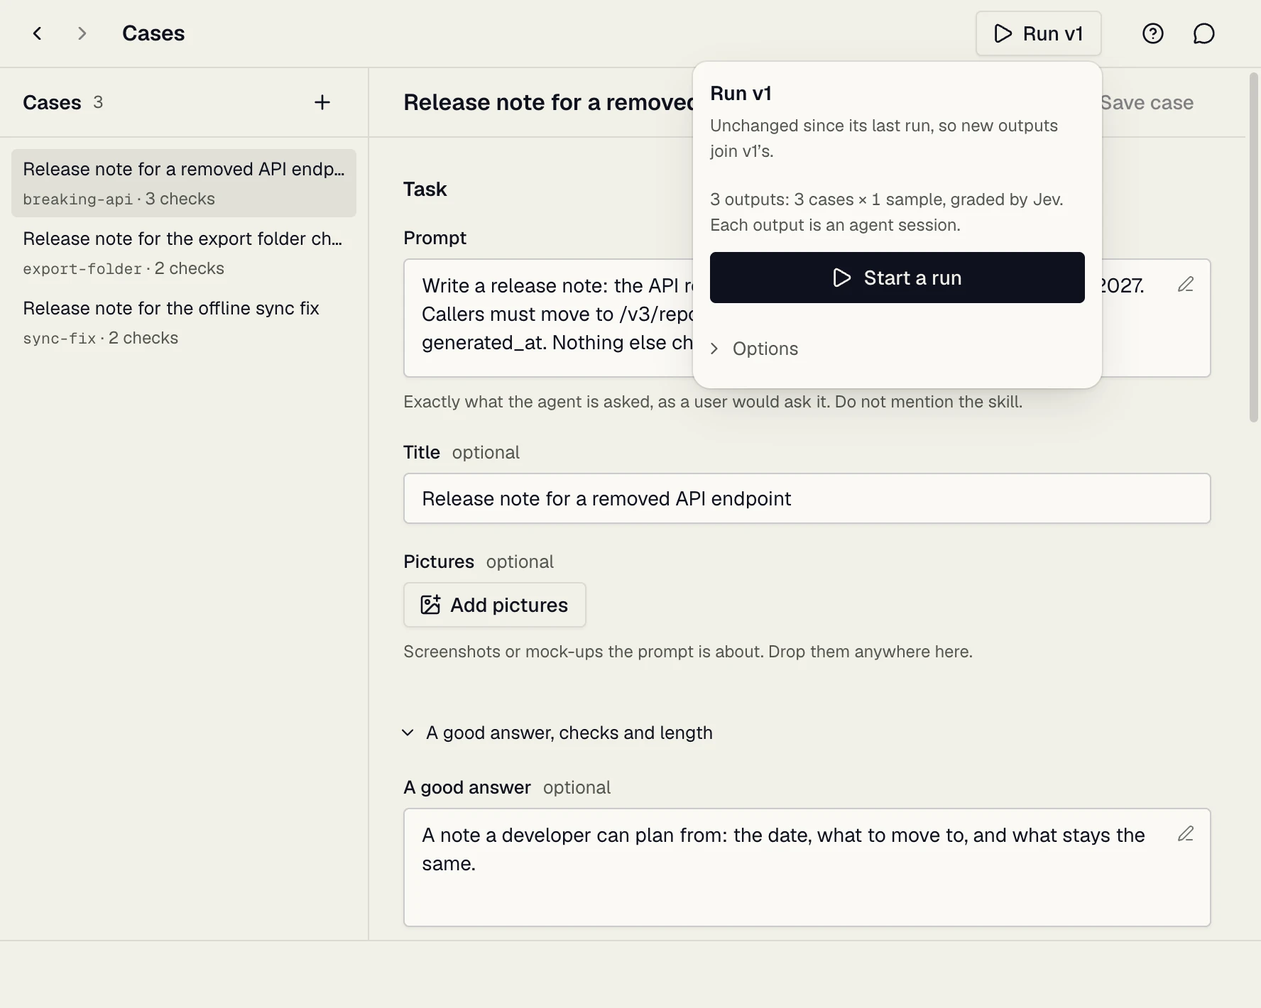
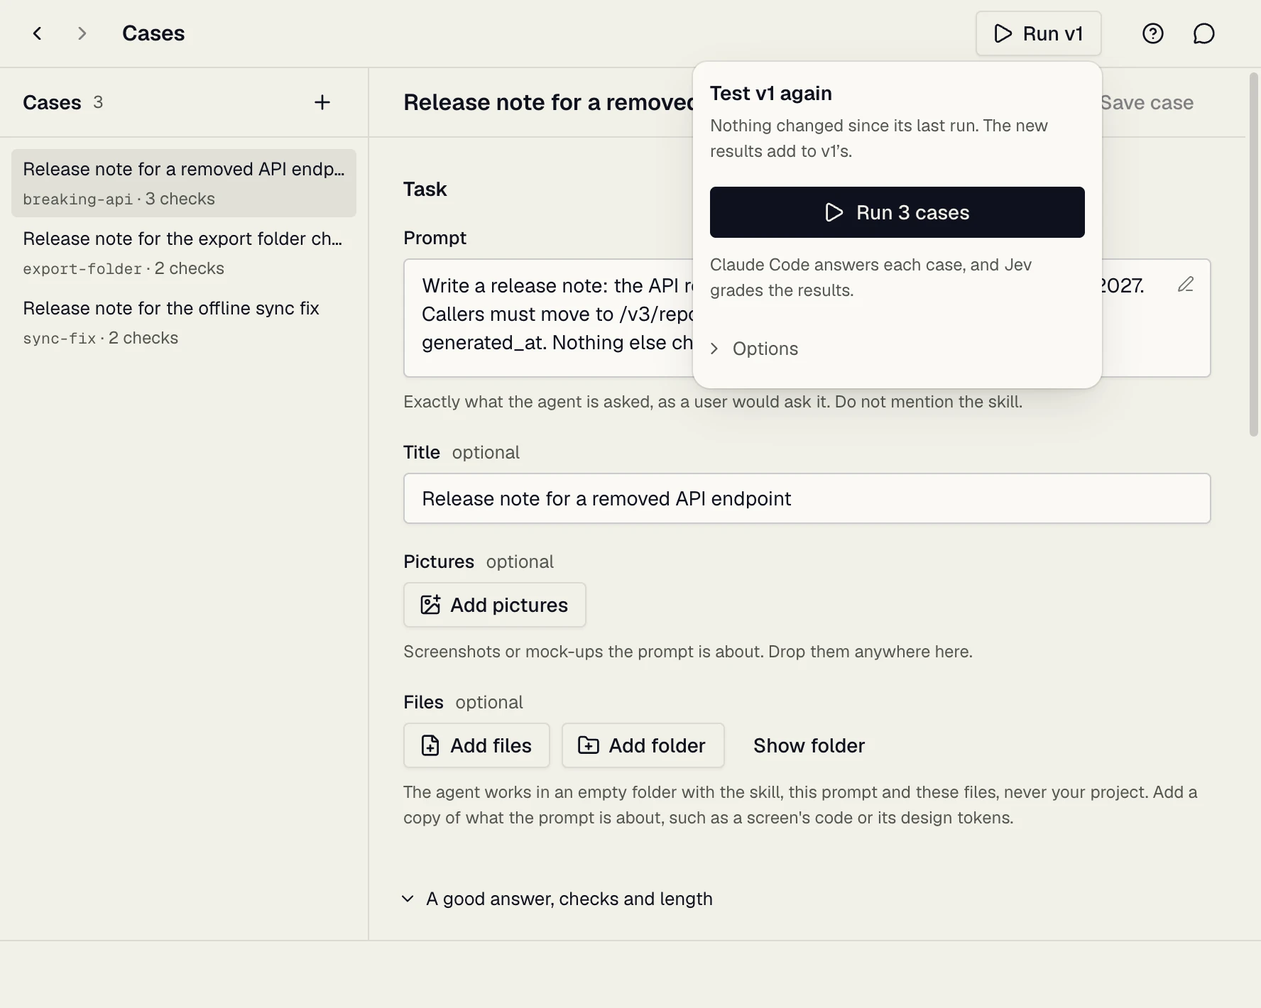
Run panel says what it tests, and its button names the run
The panel led with mechanism (versions kept, outputs, samples, agent
sessions) in 12px muted text, and the one fact that costs money sat last.
Now the title says what is tested, one line says what comes of it, and the
button carries the size of the run: "Run 3 cases", or "Run 3 cases, 2
attempts each". The line under it says which agent answers and that Jev
grades. Ticking cases or changing attempts changes only the button's words.

No Jev key, unsaved files and no agent are warning Statuses instead of grey
hints; no agent is tied to the disabled button by aria-describedby and opens
Options. No case ticked reads "Tick a case to run". Options labels: Skill,
Version, Attempts per case; a missing agent's setup hint sits under Agent.
The panel is labelled by its heading. Status takes an id.

Design docs, guide, run.webp and the changelog follow.

diff --git a/src/renderer/components/Run.tsx b/src/renderer/components/Run.tsx
@@ -1,10 +1,12 @@
 /**
  * Run: the button in the top bar that has an agent do the skill's cases. It is
  * a button and not a place, because a run is one step between writing and
- * comparing. Pressing it opens what the run will do, said first because a run
- * costs money, with the one button that starts it under that. What rarely
- * changes (which cases, which agent, how many samples) waits under Options,
- * below the button, so opening it never moves the button away.
+ * comparing. Pressing it opens what the run will test, in words a first-time
+ * reader knows, and one button that names what it will do ("Run 3 cases"),
+ * because a run costs money. Under the button, one line says who does the
+ * work. What rarely changes (which cases, which agent, how many attempts)
+ * waits under Options, below the button, so opening it never moves the button
+ * away, and ticking a case or changing a count changes only the button's words.
  *
  * A run tests the skill as its files are saved. When they changed since the
  * last run, the run keeps a copy of them as the next version, so every score
@@ -16,7 +18,7 @@
 import { practiceVersionName } from '@domain/practice.ts'
 import { CONFIGURATIONS, type Configuration } from '@domain/schemas.ts'
 import { PlayIcon } from 'lucide-react'
-import { useMemo, useState } from 'react'
+import { useId, useMemo, useState } from 'react'
 import { api, type Job, type State } from '../api.ts'
 import { type Reporter, useToggleSet } from '../hooks.ts'
 import { useJobStart } from '../job-start.ts'
@@ -41,10 +43,14 @@ const CONFIG_LABEL: Record<Configuration, string> = {
 }
 
 const CONFIG_HELP: Record<Configuration, string> = {
-  with_skill: 'The agent has the skill as its files are saved now.',
-  without_skill: 'No skill installed. Run this once to see whether the skill helps at all.',
-  old_skill: 'A past run’s copy of the skill, to test an edit against the version before it.',
+  with_skill: 'The skill as its files are saved now.',
+  without_skill: 'No skill at all. Run this once to see whether the skill helps.',
+  old_skill: 'A copy an earlier run kept, to test an edit against the version before it.',
 }
+
+/** "3 cases", or "3 cases, 2 attempts each": what the run does, said once on its button. */
+const runSize = (cases: number, attempts: number): string =>
+  attempts > 1 ? `${plural(cases, 'case')}, ${attempts} attempts each` : plural(cases, 'case')
 
 interface Writer {
   engine: string
@@ -71,6 +77,8 @@ export function RunButton({
   /** Skill files with edits not saved yet: a run tests the files as saved, so it says so. */
   unsaved: number
 }) {
+  const titleId = useId()
+  const reasonId = useId()
   const engines = state.engines
   const current = state.versions.current
   const withSkill = state.runs.filter((r) => r.hasSkill)
@@ -109,7 +117,7 @@ export function RunButton({
     : firstVersion
       ? 'First version'
       : `Edits of ${shortDate(new Date().toISOString())}`
-  const count = cases.length * samples
+  const size = runSize(cases.length, samples)
   /**
    * A run of this skill, from the press that starts it until it is over. The
    * button stays busy all that time: starting returns as soon as the job is
@@ -137,37 +145,45 @@ export function RunButton({
         note: '',
         grade: true,
       })
-      report(`Run started: ${plural(count, 'output')}`)
+      report(`Run started: ${size}`)
       setName('')
       onOpenChange(false)
     })
   }
 
+  // What the run tests and what comes of it, in the reader's words: no file, copy or folder.
   const lead =
     configuration === 'without_skill'
       ? {
-          title: 'Run without the skill',
-          hint: `The same cases with no skill installed, filed under ${current.version}. It is the score the skill has to beat.`,
+          title: 'Test without the skill',
+          hint: 'The same cases with no skill at all. It sets the score your skill has to beat.',
         }
       : configuration === 'old_skill'
         ? {
-            title: pastRun ? `Run ${versionName(pastRun)}` : 'Run an earlier version',
+            title: 'Test an earlier version',
             hint: pastRun
-              ? `The copy of the skill from the run of ${runStamp(pastRun)}, to test the latest edit against.`
+              ? `${versionName(pastRun)}, as it was on ${runStamp(pastRun)}. Compare your latest edits against it.`
               : 'No earlier run kept a copy of the skill.',
           }
-        : {
-            title: `Run ${current.version}`,
-            hint: !current.changed
-              ? `Unchanged since its last run, so new outputs join ${current.version}’s.`
-              : firstVersion
-                ? `The first run keeps the skill as ${current.version}, so every score stays tied to the text behind it.`
-                : `The skill changed since its last run, so this run keeps it as ${current.version}.`,
-          }
+        : firstVersion
+          ? {
+              title: 'Test this skill',
+              hint: `Saves it as ${current.version}, so you can compare later edits with it.`,
+            }
+          : current.changed
+            ? {
+                title: 'Test your edits',
+                hint: `Saves the skill as ${current.version}, so you can compare it with the version before.`,
+              }
+            : {
+                title: `Test ${current.version} again`,
+                hint: `Nothing changed since its last run. The new results add to ${current.version}’s.`,
+              }
   const configurations = withSkill.length
     ? CONFIGURATIONS
     : CONFIGURATIONS.filter((c) => c !== 'old_skill')
   const missing = engines.filter((e) => !e.available)
+  const who = engine?.label ?? 'The agent'
 
   return (
     <Popover open={open} onOpenChange={onOpenChange}>
@@ -186,11 +202,11 @@ export function RunButton({
       <PopoverContent
         align="end"
         size="form"
-        aria-label="Run"
+        aria-labelledby={titleId}
         className="max-h-(--radix-popover-content-available-height) overflow-y-auto overscroll-contain"
       >
         <Stack gap="xs">
-          <Heading level={3} as="h2">
+          <Heading level={3} as="h2" id={titleId}>
             {lead.title}
           </Heading>
           <Hint>{lead.hint}</Hint>
@@ -208,42 +224,53 @@ export function RunButton({
             <Hint>Names {current.version}, so you can tell versions apart later.</Hint>
           </Field>
         ) : null}
-        {unsaved && configuration === 'with_skill' ? (
-          <Status
-            tone="warning"
-            size="ui"
-            detail="A run tests the files as saved. Save them on the Skill screen first."
-          >
-            {plural(unsaved, 'file')} with unsaved edits
-          </Status>
+        {(unsaved && configuration === 'with_skill') || !state.jevKey ? (
+          <Stack gap="sm">
+            {unsaved && configuration === 'with_skill' ? (
+              <Status
+                tone="warning"
+                size="ui"
+                detail="The run tests the files as saved. Save them on the Skill screen first."
+              >
+                {plural(unsaved, 'file')} not saved
+              </Status>
+            ) : null}
+            {state.jevKey ? null : (
+              <Status
+                tone="warning"
+                size="ui"
+                detail="Only code checks will grade this run. Add a key in Settings."
+              >
+                No Jev key
+              </Status>
+            )}
+          </Stack>
         ) : null}
         <Stack gap="md">
-          <Hint tabular>
-            {running && !starting
-              ? 'A run of this skill is going. Start the next one when it is over.'
-              : !usable
-                ? 'No agent is set up to write the outputs.'
-                : !cases.length
-                  ? 'Tick at least one case under Options.'
-                  : `${plural(count, 'output')}: ${plural(cases.length, 'case')} × ${plural(samples, 'sample')}, graded ${state.jevKey ? 'by Jev' : 'by code checks only: no Jev key'}. Each output is an agent session.`}
-          </Hint>
           <Button
             type="button"
-            disabled={
-              (running && !starting) ||
-              !usable ||
-              !cases.length ||
-              (configuration === 'old_skill' && !pastRun)
-            }
-            busy={starting}
-            busyLabel="Starting…"
+            disabled={!usable || !cases.length || (configuration === 'old_skill' && !pastRun)}
+            busy={running}
+            busyLabel={starting ? 'Starting…' : 'Running…'}
+            aria-describedby={usable ? undefined : reasonId}
             onClick={start}
           >
             <PlayIcon aria-hidden="true" />
-            Start a run
+            {cases.length ? `Run ${size}` : 'Tick a case to run'}
           </Button>
+          {usable ? (
+            <Hint>
+              {state.jevKey
+                ? `${who} answers each case, and Jev grades the results.`
+                : `${who} answers each case.`}
+            </Hint>
+          ) : (
+            <Status tone="warning" size="ui" id={reasonId} detail="See Agent under Options.">
+              No agent is set up
+            </Status>
+          )}
         </Stack>
-        <Disclosure summary="Options">
+        <Disclosure summary="Options" defaultOpen={!usable}>
           <Stack gap="lg">
             <Field role="group" aria-labelledby="run-cases">
               <Label id="run-cases">Cases</Label>
@@ -261,7 +288,7 @@ export function RunButton({
               </Stack>
             </Field>
             <Field>
-              <Label htmlFor="run-with">Write with</Label>
+              <Label htmlFor="run-with">Skill</Label>
               <SelectBox
                 id="run-with"
                 width="full"
@@ -273,7 +300,7 @@ export function RunButton({
             </Field>
             {configuration === 'old_skill' ? (
               <Field>
-                <Label htmlFor="run-baseline">Copy from</Label>
+                <Label htmlFor="run-baseline">Version</Label>
                 <SelectBox
                   id="run-baseline"
                   width="full"
@@ -302,6 +329,11 @@ export function RunButton({
                   disabled: !e.available,
                 }))}
               />
+              {missing.map((e) => (
+                <Hint key={e.id}>
+                  {e.label} is not set up. {e.hint}
+                </Hint>
+              ))}
             </Field>
             <Field>
               <Label htmlFor="run-model">Model</Label>
@@ -331,7 +363,7 @@ export function RunButton({
               />
             </Field>
             <Field>
-              <Label htmlFor="run-samples">Samples per case</Label>
+              <Label htmlFor="run-samples">Attempts per case</Label>
               <NumberInput
                 id="run-samples"
                 min={1}
@@ -340,17 +372,12 @@ export function RunButton({
                 onChange={(e) => setSamples(Math.min(10, Math.max(1, Number(e.target.value) || 1)))}
               />
               <Hint>
-                An agent answers a little differently each time. Two or more show how steady the
-                skill is.
+                An agent answers a little differently each time. Two or more attempts show whether a
+                result was luck.
               </Hint>
             </Field>
           </Stack>
         </Disclosure>
-        {missing.map((e) => (
-          <Hint key={e.id}>
-            {e.label} is not set up. {e.hint}
-          </Hint>
-        ))}
       </PopoverContent>
     </Popover>
   )

diff --git a/src/renderer/components/Status.tsx b/src/renderer/components/Status.tsx
@@ -48,11 +48,17 @@ export function Status({
   tone,
   size,
   detail,
+  id,
   children,
 }: Pick<VariantProps<typeof dotVariants>, 'tone'> &
-  VariantProps<typeof statusVariants> & { detail?: ReactNode; children: ReactNode }) {
+  VariantProps<typeof statusVariants> & {
+    detail?: ReactNode
+    /** For a control the state explains, through its `aria-describedby`. */
+    id?: string
+    children: ReactNode
+  }) {
   return (
-    <p className={statusVariants({ size })}>
+    <p id={id} className={statusVariants({ size })}>
       <Dot tone={tone} />
       <Text weight="medium">{children}</Text>
       {detail ? <Text tone="muted">{detail}</Text> : null}

diff --git a/docs/guide.md b/docs/guide.md
@@ -64,7 +64,7 @@ Take a finished skill once round the loop. Click **Try it on a sample skill** in
 
 The walkthrough's skill, Thank-you note, writes short thank-you notes, so a run takes a minute or two. Nothing needs typing. It opens on the Skill screen, with its rules in view. The Walkthrough box in the sidebar shows your step, and clicking it takes you there. The yellow button at the top right is the way on:
 
-1. **Run the skill.** Click **Run** at the top right, then "Start a run". An agent writes a note for each of the three cases.
+1. **Run the skill.** Click **Run** at the top right, then **Run 3 cases**. An agent writes a note for each of the three cases.
 2. **Read what the notes missed.** Results shows each note with its score, and under it the rules and checks it missed. Without a Jev key a note has no score, and only its length is checked.
 3. **Tighten one rule.** "Keep the note to a reasonable length" is vague on purpose, so the notes come back too long. Once you have read the results, the Skill screen offers the exact rule: click "Use the exact rule", then Save.
 4. **Run it again, then compare.** Only the rule changed, so any difference is your edit. Once the run is in, read a note from each version side by side.
@@ -219,20 +219,20 @@ Write at least three different cases before you trust a score.
 
 ## 4. Run it
 
-![The Run panel, opened from the Run button at the top right: what this run will do, how many outputs it writes, and Start a run, with Options folded under it.](images/run.webp)
+![The Run panel, opened from the Run button at the top right: what this run tests, the button that runs the cases, who does the work, and Options folded under it.](images/run.webp)
 
-1. Click **Run** at the top right. A panel opens and says what the run will do: the version it tests and how many outputs it writes.
+1. Click **Run** at the top right. A panel opens and says what the run tests, and whether it saves the skill as a new version.
 2. If the skill changed since its last run, the run keeps it as a new version. Type what changed under **What changed**, or leave it: the version is then named after the date.
-3. Click **Start a run**.
+3. Click the button that names the run: **Run 3 cases**, or **Run 3 cases, 2 attempts each**. The line under it says which agent answers the cases and that Jev grades the results.
 
-A run tests the files as saved. When a file has unsaved edits, the panel says so: save it on the Skill screen first.
+A run tests the files as saved. When a file has unsaved edits, the panel says so: save it on the Skill screen first. Without a Jev key it says that too: only code checks grade the run.
 
 The defaults suit most runs: every case, once, with the agent you used last. **Options** changes them:
 
 - **Cases:** untick the ones to leave out.
-- **Write with:** "This version", "No skill" (the baseline to beat), or "An earlier version" (to run an old copy of the skill again: pick it under **Copy from**, which starts on the newest run's copy, the version before your edits).
-- **Agent, Model, Effort:** who writes the outputs. Pick a model from the list or type its name.
-- **Samples per case:** use 2 or more to see how steady the skill is. Agents answer a little differently each time.
+- **Skill:** "This version", "No skill" (the baseline to beat), or "An earlier version" (to run an old copy of the skill again: pick it under **Version**, which starts on the newest run's copy, the version before your edits).
+- **Agent, Model, Effort:** who writes the outputs. Pick a model from the list or type its name. An agent that is not set up says how to set it up under **Agent**.
+- **Attempts per case:** use 2 or more to see how steady the skill is. Agents answer a little differently each time, and each attempt is a sample on Results.
 
 The run works in the background. Its progress shows at the foot of the sidebar: click it for the log, where **Stop** ends the run. Jev grades the outputs when they are written.
 
@@ -281,7 +281,7 @@ Under the two outputs, **Add a check** takes one sentence: what a good answer do
 - **Click a run** to see each output with what it missed. **Changes since this run** shows what changed in the skill after it. **Regrade** has Jev read the run again.
 - **Delete run** deletes that run's outputs and your corrections on them. Every score stops counting it, here, on each case and in the version list. Its version stays: when the run was the version's only copy, the version is saved from it first. **Undo** on the status line brings the run back. A run still writing or being graded can be deleted once that ends.
 
-To be sure an edit helped, run with **Samples per case** at 2 or more. If two versions' scores differ less than one version's samples do, the edit made no clear difference.
+To be sure an edit helped, run with **Attempts per case** at 2 or more. If two versions' scores differ less than one version's samples do, the edit made no clear difference.
 
 ### Graded as
 

diff --git a/docs/design/buttons.md b/docs/design/buttons.md
@@ -102,7 +102,7 @@ Otherwise → default
 
 The top bar shows where the loop goes next. It is the app's one yellow control. Only `App.tsx` renders it: a screen never adds its own. Below `lg` it reads the step's name alone ("Read the results"), "Next:" kept for a screen reader, and it is the last part of the bar to give way (see `TopBar` in [layout.md](layout.md)).
 
-The loop is write, run, compare, and running is a button, not a place. So the next step is one of two things: a place to go ("Next: Add a case", "Next: Read the results"), drawn as below, or the run itself. `RunButton` (`components/Run.tsx`) stands in the top bar whenever the skill has a case. It is `signal` when running is the next step and `outline` otherwise, and its label is the same either way ("Run v2"), so it keeps its place. It opens a `form` popover that says what the run will do before the button that starts it, because a run costs money.
+The loop is write, run, compare, and running is a button, not a place. So the next step is one of two things: a place to go ("Next: Add a case", "Next: Read the results"), drawn as below, or the run itself. `RunButton` (`components/Run.tsx`) stands in the top bar whenever the skill has a case. It is `signal` when running is the next step and `outline` otherwise, and its label is the same either way ("Run v2"), so it keeps its place. It opens a `form` popover that says what the run will test, then the button that starts it, which names what the run does ("Run 3 cases"), because a run costs money.
 
 ```tsx
 // Correct: App.tsx
@@ -129,7 +129,7 @@ The loop is write, run, compare, and running is a button, not a place. So the ne
 </Button>
 
 // Incorrect: signal on the action inside Run's own panel. It is the panel's primary: default.
-<Button variant="signal" onClick={start}>Start a run</Button>
+<Button variant="signal" onClick={start}>Run 3 cases</Button>
 ```
 
 ## Every button
@@ -144,7 +144,7 @@ The loop is write, run, compare, and running is a button, not a place. So the ne
 - The composer's Stop is `disabled` until there is a reply to stop: a request still being sent has no id yet (`Composer` takes no `onStop` then).
 - The other buttons of the same form or row are `disabled` while one of them is busy, so Save and Delete, or Restore on two rows, cannot run at once. A row's controls in a list wait on the row's own key (`pending` in `Library.tsx`), not on every row.
 - "Try again" after a failed read is busy while the read runs again: `useFetch` returns `loading`, and `ReadFailed` takes it as `retrying`.
-- A label is a verb and its object: "Start a run", "Delete case", "Save case", and "Add case" for an item's first save. Never "OK", "Submit" or "Click here". "Save" alone is right where what it saves is plain: the Skill screen's `ColumnHeader`, where it saves the open file.
+- A label is a verb and its object: "Run 3 cases", "Delete case", "Save case", and "Add case" for an item's first save. Never "OK", "Submit" or "Click here". "Save" alone is right where what it saves is plain: the Skill screen's `ColumnHeader`, where it saves the open file.
 - A dialog's confirm button is one verb: "Restart", "Restore", "Delete", "Discard", "Reset". The title above it names the object, so the button does not repeat it. The button that opens the dialog keeps its object: "Restart walkthrough…" opens a dialog whose button says "Restart".
 - Press feedback (`active:scale-[0.96]`) and the focus ring (`focus-ring`: keyboard only, see [color.md](color.md#focus)) are built in. Do not restyle them.
 - Never show an action only on hover. A row's actions are `ghost-muted` at rest, so touch and keyboard reach them.

diff --git a/docs/design/forms.md b/docs/design/forms.md
@@ -126,7 +126,8 @@ The pressed `outline` or `quiet` toggle is ink fill, the same as `Segmented`, so
 ## Actions
 
 - `FormActions` at the foot of a saved form: primary first, destructive last after `Spacer`.
-- A form whose one action costs something says what it will do before the action: Run states the output count and how it adds up in a `Hint` over "Start a run" (`components/Run.tsx`).
+- A form whose one action costs something says what it will do on the action itself: Run's button reads "Run 3 cases" or "Run 3 cases, 2 attempts each", so the size of the run is the strongest line in the panel, and a `Hint` under it says who does the work (`components/Run.tsx`). Ticking a case or changing a count changes only the button's words, so nothing under the pointer moves.
+- A warning that holds before the action (unsaved files, no Jev key) is a `Status` with `tone="warning"` above it. A reason the action cannot run at all is a `Status` in place of the line under it, tied to the disabled button by `aria-describedby`; when the button's own words can say it, they do ("Tick a case to run").
 - An action that is the only control of its section ("Reset Skill Studio…") sits in a `Toolbar` inside a `FormSection` of its own, as in `Settings.tsx`.
 - "Discard" acts only when the form is dirty, and goes through `ctx.confirm`. A case and Graded as show it only then; the Skill screen's header keeps it in place, disabled.
 - Adding or removing a repeated row moves focus with it: to the new row, or to the next row's remove button.

diff --git a/docs/design/brand.md b/docs/design/brand.md
@@ -91,6 +91,6 @@ The welcome runs in its own 760 x 600 window, laid out for exactly that size and
 ## Words
 
 - Sentence case everywhere. No title case, no trailing period on a label.
-- A button is a verb and its object, except a dialog's confirm button, which is one verb ([buttons.md](buttons.md)). The button that starts a run is always "Start a run". The thing graded is an "output", and the model that grades it is "Jev", never "the judge": a judge's verdict is final, and here the reader's is. What an output fails is "missed", what it passes is "met", and the reader's own answer on one verdict is a "correction", shown as "your answer".
+- A button is a verb and its object, except a dialog's confirm button, which is one verb ([buttons.md](buttons.md)). The button that starts a run names what it runs: "Run 3 cases", or "Run 3 cases, 2 attempts each". The thing graded is an "output", and the model that grades it is "Jev", never "the judge": a judge's verdict is final, and here the reader's is. What an output fails is "missed", what it passes is "met", and the reader's own answer on one verdict is a "correction", shown as "your answer".
 - Plain and specific. No "powerful", "seamless", "simply". Say what happens.
 - An error says what failed and the next step. Never "Something went wrong".

diff --git a/CHANGELOG.md b/CHANGELOG.md
@@ -6,6 +6,13 @@ The format follows [Keep a Changelog](https://keepachangelog.com/en/1.1.0/), and
 
 ## [Unreleased]
 
+### Changed
+
+- The Run panel says what it tests in plain words: **Test this skill**, **Test your edits**, **Test v2 again**, and one line on what comes of it. Its button names the run, **Run 3 cases** or **Run 3 cases, 2 attempts each**, in place of **Start a run** over a count of outputs, samples and agent sessions. The line under the button says which agent answers the cases and that Jev grades the results.
+- Under Options, **Write with** is now **Skill**, **Copy from** is **Version**, and **Samples per case** is **Attempts per case**. An agent that is not set up says how to set it up under **Agent**.
+- What stops a run, or makes it grade less, shows as a warning: no Jev key, files not saved, no agent set up. With no case ticked the button says **Tick a case to run**. Before, each was a grey line of help text.
+- Ticking a case or changing the attempts no longer moves the button or the field under the pointer: only the button's words change.
+
 ## [0.7.2] - 2026-11-11
 
 ### Changed
